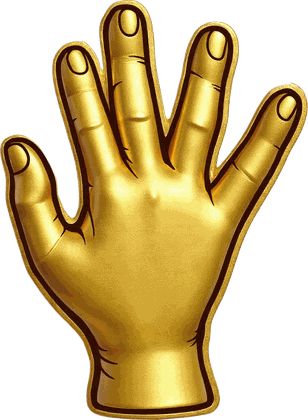
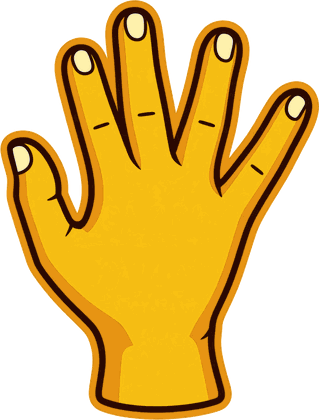
Effects in the sticker style: a flat golden palm, inked field rims
The Rulai Palm was a rendered metal hand among flat stickers. It is redrawn
from the same hand as a flat saffron-gold sticker with one hard amber shadow
and a thick dark outline (art/monk/fx/palm_sticker.txt).

The lingering fields and the Golden Bell were pale gold on a pale rim; on the
brighter chapter 1 meadow they washed out. Their rims are now a bright line
over a dark ink band, with a stronger floor, so they hold on any ground.

diff --git a/client/src/game/spellView.ts b/client/src/game/spellView.ts
@@ -42,13 +42,16 @@ function bake(renderer: Renderer, g: Graphics, size: number): Texture {
   return tex;
 }
 
-function fieldTexture(renderer: Renderer, fill: number, rim: number, heal: boolean): Texture {
+/** A field's disc: a tinted floor inside a bright rim inked dark, so it holds on a light meadow. */
+function fieldTexture(renderer: Renderer, fill: number, rim: number, ink: number, heal: boolean): Texture {
   const r = FIELD_R;
   if (CORGI) return bake(renderer, corgiPuddle(r, heal), r * 2);
   const g = new Graphics()
-    .circle(r, r, r * 0.97).fill({ color: fill, alpha: 0.22 })
-    .circle(r, r, r * 0.92).stroke({ color: rim, width: r * 0.07, alpha: 0.9 })
-    .circle(r, r, r * 0.6).stroke({ color: rim, width: r * 0.03, alpha: 0.5 });
+    .circle(r, r, r * 0.93).fill({ color: fill, alpha: 0.3 })
+    .circle(r, r, r * 0.91).stroke({ color: ink, width: r * 0.13, alpha: 0.75 })
+    .circle(r, r, r * 0.91).stroke({ color: rim, width: r * 0.06, alpha: 1 })
+    .circle(r, r, r * 0.6).stroke({ color: ink, width: r * 0.05, alpha: 0.35 })
+    .circle(r, r, r * 0.6).stroke({ color: rim, width: r * 0.025, alpha: 0.8 });
   return bake(renderer, g, r * 2);
 }
 
@@ -88,8 +91,9 @@ function bellDome(): Graphics {
   const r = BELL_R;
   if (CORGI) return corgiBubble(r);
   return new Graphics()
-    .ellipse(0, 0, r, r * 1.15).fill({ color: 0xffd860, alpha: 0.18 })
-    .ellipse(0, 0, r, r * 1.15).stroke({ color: 0xffe9a0, width: 9, alpha: 0.85 })
+    .ellipse(0, 0, r, r * 1.15).fill({ color: 0xffd860, alpha: 0.2 })
+    .ellipse(0, 0, r, r * 1.15).stroke({ color: 0x8a4a10, width: 15, alpha: 0.6 })
+    .ellipse(0, 0, r, r * 1.15).stroke({ color: 0xffe27a, width: 8, alpha: 0.95 })
     .ellipse(0, r * 0.75, r * 0.82, r * 0.22).stroke({ color: 0xffe9a0, width: 6, alpha: 0.6 })
     .ellipse(-r * 0.4, -r * 0.5, r * 0.14, r * 0.28).fill({ color: 0xffffff, alpha: 0.5 });
 }
@@ -124,8 +128,8 @@ export class SpellView {
   ) {
     this.palms = new PalmFalls(layer, palm.tex, palm.mountain, palm.z, (x, y, r) => rubble(pool, rand, x, y, r));
     this.discs = new ViewPool(() => new Sprite({ anchor: 0.5 }), (s) => layer.addChild(s));
-    this.fieldTex = fieldTexture(renderer, 0xffd860, 0xffe9a0, false);
-    this.healTex = fieldTexture(renderer, 0x7ee0a0, 0xc8ffd8, true);
+    this.fieldTex = fieldTexture(renderer, 0xffc83c, 0xffe27a, 0x8a4a10, false);
+    this.healTex = fieldTexture(renderer, 0x5ed08a, 0xc8ffd8, 0x1e5a34, true);
     this.printTex = printTexture(renderer);
     this.cymbalTex = cymbalTexture(renderer);
     this.bell.visible = false;
